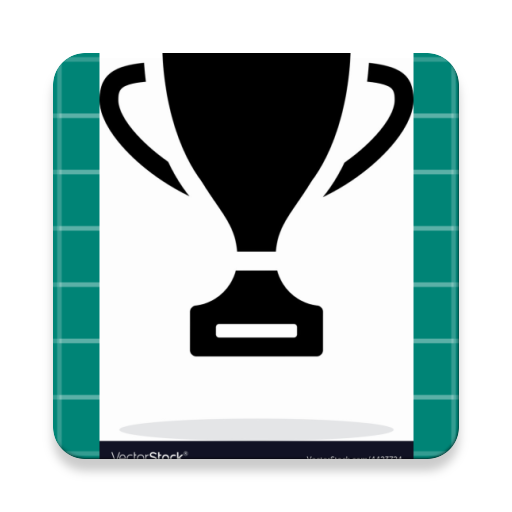
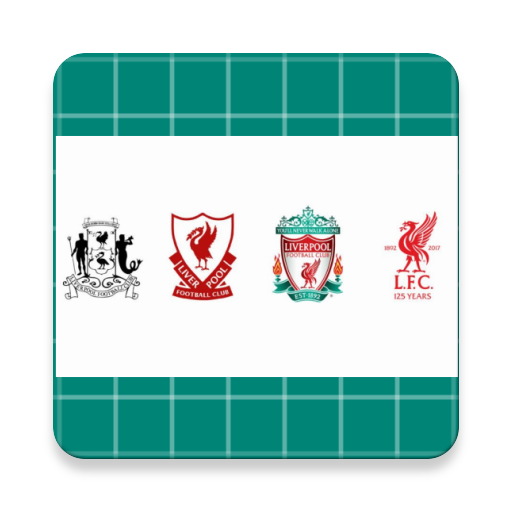
Home, History Fragments added

diff --git a/app/src/main/java/ie/wit/teamtracker/activities/Home.kt b/app/src/main/java/ie/wit/teamtracker/activities/Home.kt
@@ -11,10 +11,7 @@ import androidx.fragment.app.FragmentTransaction
 import com.google.android.material.navigation.NavigationView
 import com.google.android.material.snackbar.Snackbar
 import ie.wit.R
-import ie.wit.teamtracker.fragments.LegendFragment
-import ie.wit.teamtracker.fragments.LegendListFragment
-import ie.wit.teamtracker.fragments.PlayerFragment
-import ie.wit.teamtracker.fragments.PlayerListFragment
+import ie.wit.teamtracker.fragments.*
 import kotlinx.android.synthetic.main.app_bar_home.*
 import kotlinx.android.synthetic.main.home.*
 import org.jetbrains.anko.toast
@@ -45,7 +42,7 @@ class Home : AppCompatActivity(), NavigationView.OnNavigationItemSelectedListene
 
         ft = supportFragmentManager.beginTransaction()
 
-        val fragment = PlayerListFragment.newInstance()
+        val fragment = HomeFragment.newInstance()
         ft.replace(R.id.homeFrame, fragment)
         ft.commit()
     }
@@ -54,9 +51,10 @@ class Home : AppCompatActivity(), NavigationView.OnNavigationItemSelectedListene
 
         when (item.itemId) {
 
-            R.id.nav_home-> toast("You Selected Home")
+            R.id.nav_home-> navigateTo(HomeFragment.newInstance())
             R.id.nav_player -> navigateTo(PlayerFragment.newInstance())
             R.id.nav_team -> navigateTo(PlayerListFragment.newInstance())
+            R.id.nav_history -> navigateTo(HistoryFragment.newInstance())
 
             R.id.nav_history-> toast("You Selected Club History")
             R.id.nav_addTrophies-> toast("You Selected Add Trophies")

diff --git a/app/src/main/java/ie/wit/teamtracker/fragments/HistoryFragment.kt b/app/src/main/java/ie/wit/teamtracker/fragments/HistoryFragment.kt
@@ -1,0 +1,44 @@
+package ie.wit.teamtracker.fragments
+
+import android.os.Bundle
+import androidx.fragment.app.Fragment
+import android.view.LayoutInflater
+import android.view.View
+import android.view.ViewGroup
+import ie.wit.R
+import ie.wit.teamtracker.main.PlayerApp
+
+
+
+class HistoryFragment : Fragment() {
+
+    lateinit var app: PlayerApp
+
+
+    override fun onCreate(savedInstanceState: Bundle?) {
+        super.onCreate(savedInstanceState)
+        app = activity?.application as PlayerApp
+    }
+
+    override fun onCreateView(
+        inflater: LayoutInflater, container: ViewGroup?,
+        savedInstanceState: Bundle?
+    ): View? {
+
+        val root = inflater.inflate(R.layout.fragment_overview, container, false)
+        activity?.title = getString(R.string.action_history)
+
+
+        return root
+    }
+
+    companion object {
+        @JvmStatic
+        fun newInstance() =
+            HistoryFragment().apply {
+                arguments = Bundle().apply {}
+            }
+    }
+
+
+}

diff --git a/app/src/main/java/ie/wit/teamtracker/fragments/HomeFragment.kt b/app/src/main/java/ie/wit/teamtracker/fragments/HomeFragment.kt
@@ -1,0 +1,42 @@
+package ie.wit.teamtracker.fragments
+
+import android.os.Bundle
+import androidx.fragment.app.Fragment
+import android.view.LayoutInflater
+import android.view.View
+import android.view.ViewGroup
+import ie.wit.R
+import ie.wit.teamtracker.main.PlayerApp
+
+class HomeFragment : Fragment() {
+
+    lateinit var app: PlayerApp
+
+
+    override fun onCreate(savedInstanceState: Bundle?) {
+        super.onCreate(savedInstanceState)
+        app = activity?.application as PlayerApp
+    }
+
+    override fun onCreateView(
+        inflater: LayoutInflater, container: ViewGroup?,
+        savedInstanceState: Bundle?
+    ): View? {
+
+        val root = inflater.inflate(R.layout.fragment_home, container, false)
+        activity?.title = getString(R.string.action_home)
+
+
+        return root
+    }
+
+    companion object {
+        @JvmStatic
+        fun newInstance() =
+            HomeFragment().apply {
+                arguments = Bundle().apply {}
+            }
+    }
+
+
+}

diff --git a/app/src/main/java/ie/wit/teamtracker/fragments/LegendListFragment.kt b/app/src/main/java/ie/wit/teamtracker/fragments/LegendListFragment.kt
@@ -32,6 +32,8 @@ class LegendListFragment : Fragment() {
     ): View? {
         // Inflate the layout for this fragment
         var root = inflater.inflate(R.layout.fragment_legend_list, container, false)
+        activity?.title = getString(R.string.action_legends)
+
 
         root.recyclerView.layoutManager = LinearLayoutManager(activity)
         root.recyclerView.adapter = LegendAdapter(app.legendStore.findAll())

diff --git a/app/src/main/java/ie/wit/teamtracker/fragments/PlayerListFragment.kt b/app/src/main/java/ie/wit/teamtracker/fragments/PlayerListFragment.kt
@@ -30,6 +30,8 @@ class PlayerListFragment : Fragment() {
     ): View? {
         // Inflate the layout for this fragment
         var root = inflater.inflate(R.layout.fragment_player_list, container, false)
+        activity?.title = getString(R.string.action_team)
+
 
         root.recyclerView.layoutManager = LinearLayoutManager(activity)
         root.recyclerView.adapter = PlayerAdapter(app.playerStore.findAll())

diff --git a/app/src/main/java/ie/wit/teamtracker/fragments/LegendFragment.kt b/app/src/main/java/ie/wit/teamtracker/fragments/LegendFragment.kt
@@ -29,7 +29,7 @@ class LegendFragment : Fragment() {
     ): View? {
 
         val root = inflater.inflate(R.layout.fragment_legend, container, false)
-        activity?.title = getString(R.string.action_legend)
+        activity?.title = getString(R.string.action_addLegend)
         setButtonListener(root)
 
 

diff --git a/app/src/main/java/ie/wit/teamtracker/adapters/PlayerAdapter.kt b/app/src/main/java/ie/wit/teamtracker/adapters/PlayerAdapter.kt
@@ -33,6 +33,7 @@ class PlayerAdapter constructor(private var players: List<PlayerModel>)
         fun bind(player: PlayerModel) {
 
             itemView.name.text = player.name
+            itemView.age.text = player.age
             itemView.position.text = player.position
 
         }
